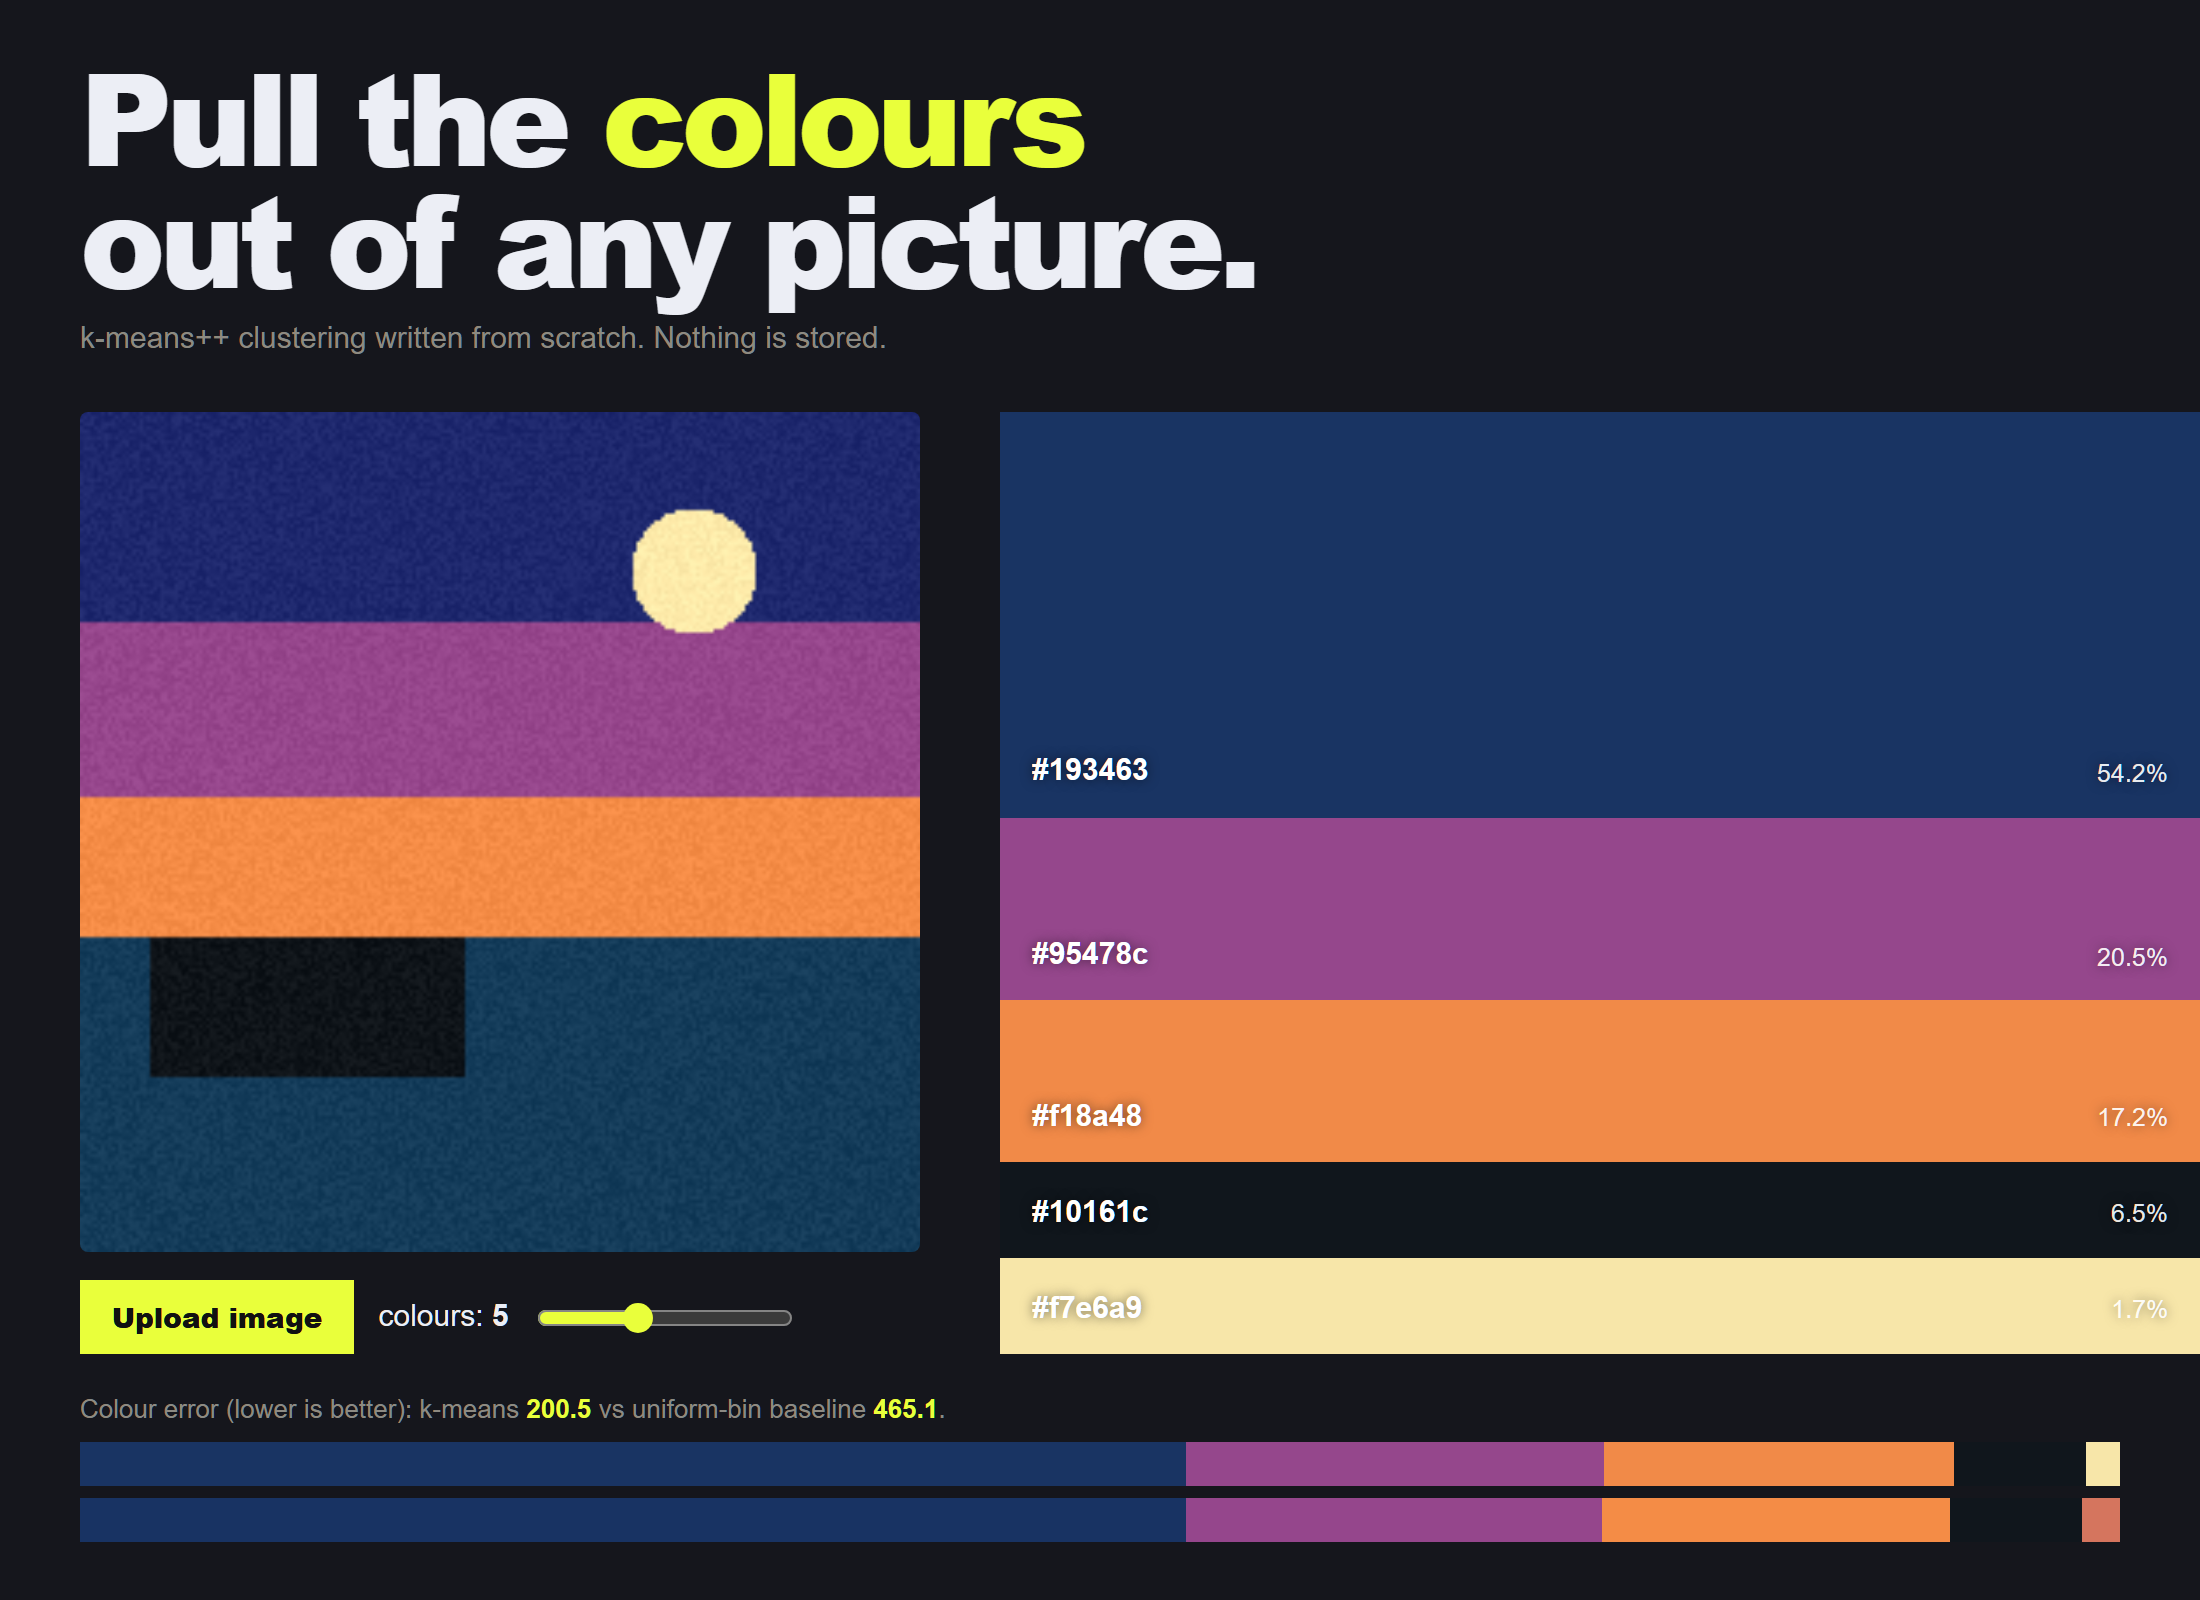
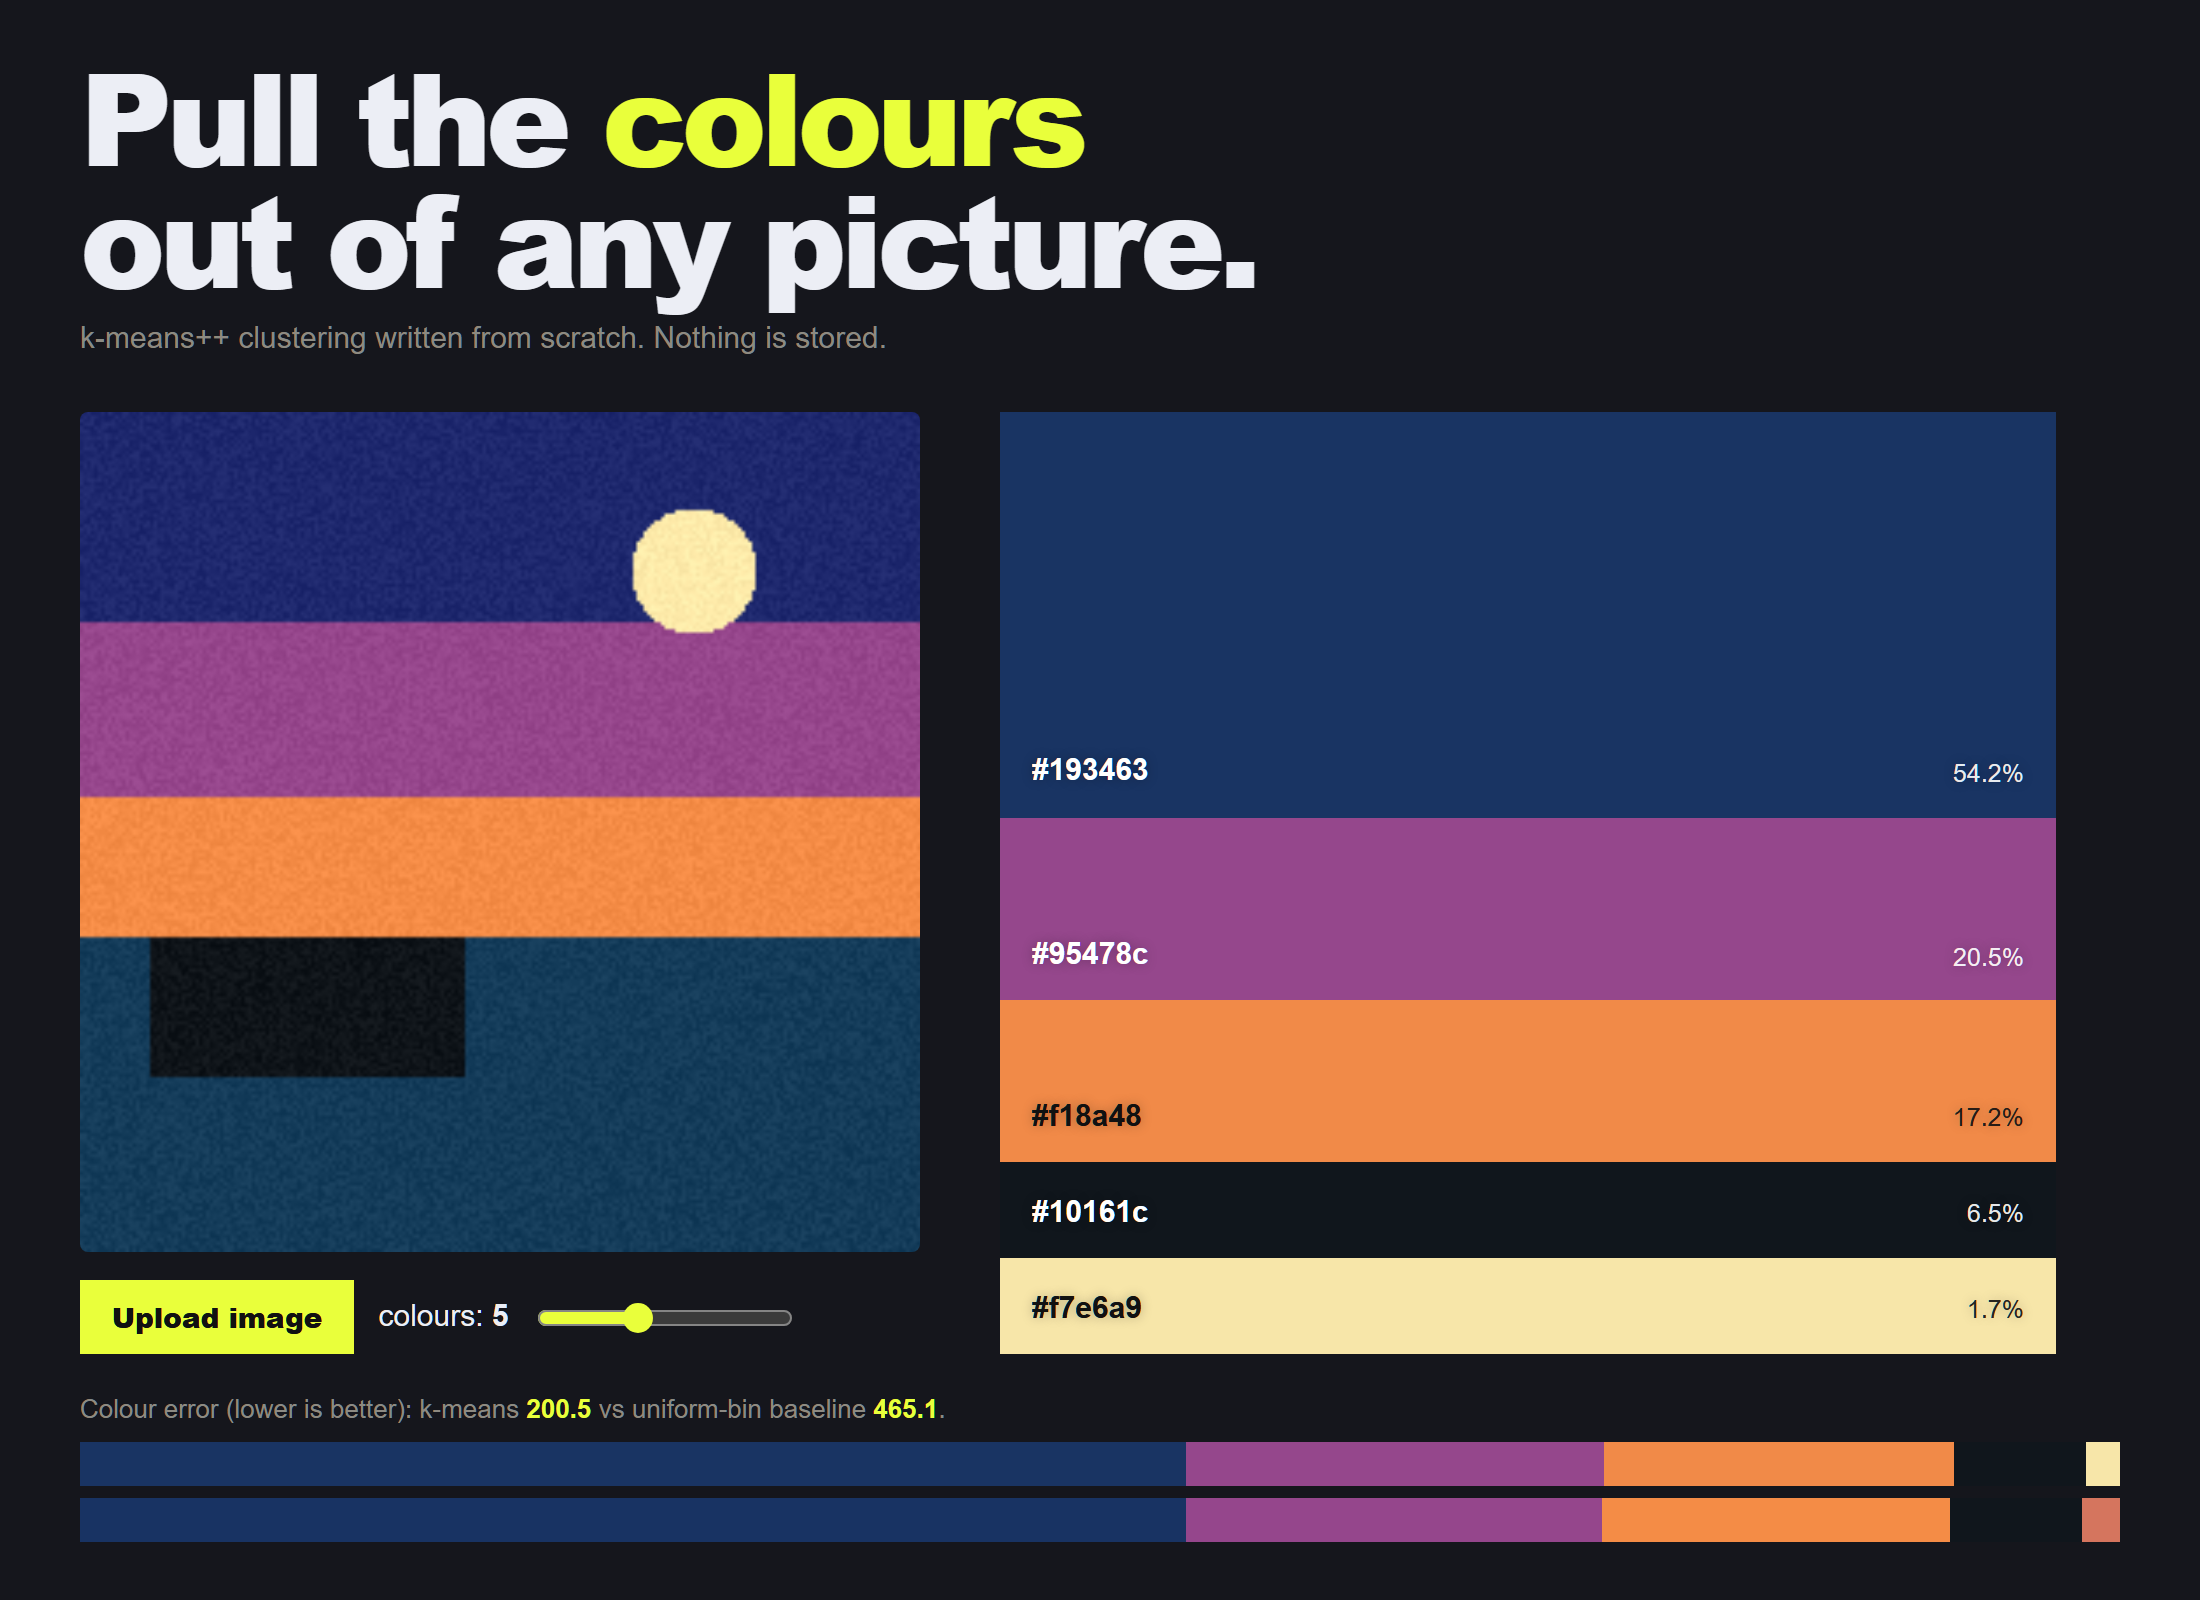
Fix layout: palette-extractor

diff --git a/projects/palette-extractor/static/index.html b/projects/palette-extractor/static/index.html
@@ -4,12 +4,13 @@
 :root{--bg:#111;--ink:#f4f1ea;--mute:#8d8a82;--acc:#e9ff3b}
 *{box-sizing:border-box}body{margin:0;background:var(--bg);color:var(--ink);font:15px/1.5 "Helvetica Neue",Arial,sans-serif;padding:0}
 header{padding:28px 40px 0}h1{font-size:64px;line-height:.95;margin:0;font-weight:900;letter-spacing:-3px}h1 em{font-style:normal;color:var(--acc)}
-p.s{color:var(--mute);margin:8px 0 0}.wrap{display:grid;grid-template-columns:1fr 1.2fr;gap:0;margin-top:26px}@media(max-width:850px){.wrap{grid-template-columns:1fr}}
+p.s{color:var(--mute);margin:8px 0 0}.wrap{display:grid;grid-template-columns:minmax(0,1fr) minmax(0,1.2fr);gap:0;margin-top:26px}@media(max-width:850px){.wrap{grid-template-columns:minmax(0,1fr)}}
 .left{padding:0 40px}.left img{width:100%;border-radius:4px;display:block}.ctl{display:flex;gap:12px;align-items:center;margin-top:14px;flex-wrap:wrap}
 input[type=range]{accent-color:var(--acc)}button,label.f{background:var(--acc);color:#111;border:0;padding:8px 16px;font-weight:800;cursor:pointer;font-size:14px}label.f input{display:none}
-.right{display:flex;flex-direction:column;min-height:380px}.sw{flex:1;display:flex;align-items:flex-end;padding:12px 16px;font-weight:700;font-size:15px;text-shadow:0 0 6px #0008;color:#fff;min-height:48px}
+.right{display:flex;flex-direction:column;min-height:380px;min-width:0;padding-right:72px}.sw{flex:1;display:flex;align-items:flex-end;padding:12px 16px;font-weight:700;font-size:15px;text-shadow:0 0 6px #0004;min-height:48px}
 .sw small{margin-left:auto;font-weight:400;opacity:.9}.cmp{padding:18px 40px;color:var(--mute);font-size:13px}.cmp b{color:var(--acc)}.strip{display:flex;height:22px;margin-top:6px}.strip i{display:block}
 #err{color:#ff7a7a;padding:0 40px}
+@media (max-width:480px){.right{padding-right:16px}.left{padding:0 16px}header{padding:28px 16px 0}.cmp{padding:18px 16px}}
 @media (prefers-color-scheme: dark){body{background:#15161c;color:#eceef5}}
 </style></head><body>
 <header><h1>Pull the <em>colours</em><br>out of any picture.</h1><p class="s">k-means++ clustering written from scratch. Nothing is stored.</p></header>
@@ -17,9 +18,13 @@ input[type=range]{accent-color:var(--acc)}button,label.f{background:var(--acc);c
 <div class="right" id="sw"></div></div><div class="cmp" id="cmp"></div><div id="err"></div>
 <script>
 const $=i=>document.getElementById(i);let file=null;
+const lin=c=>{c/=255;return c<=.03928?c/12.92:Math.pow((c+.055)/1.055,2.4)};
+const lum=h=>{const n=parseInt(h.slice(1),16);return .2126*lin(n>>16&255)+.7152*lin(n>>8&255)+.0722*lin(n&255)};
+const ratio=(a,b)=>{const x=lum(a),y=lum(b);return (Math.max(x,y)+.05)/(Math.min(x,y)+.05)};
+const ink=h=>ratio(h,'#ffffff')>=ratio(h,'#111111')?'#ffffff':'#111111';
 async function run(){try{$('err').textContent='';const fd=new FormData();fd.append('k',$('k').value);if(file)fd.append('file',file);
 const r=await fetch('/palette',{method:'POST',body:fd});const j=await r.json();if(!r.ok){$('err').textContent=j.detail;return}
-$('sw').innerHTML=j.palette.map(p=>`<div class="sw" style="background:${p.hex};flex:${Math.max(p.share,.05)}">${p.hex}<small>${(p.share*100).toFixed(1)}%</small></div>`).join('');
+$('sw').innerHTML=j.palette.map(p=>`<div class="sw" style="background:${p.hex};color:${ink(p.hex)};flex:${Math.max(p.share,.05)}">${p.hex}<small>${(p.share*100).toFixed(1)}%</small></div>`).join('');
 const strip=a=>`<div class="strip">${a.map(p=>`<i style="background:${p.hex};flex:${p.share}"></i>`).join('')}</div>`;
 $('cmp').innerHTML=`Colour error (lower is better): k-means <b>${j.mse_kmeans}</b> vs uniform-bin baseline <b>${j.mse_baseline}</b>.${strip(j.palette)}${strip(j.baseline_palette)}`}catch(e){$('err').textContent='Could not extract the colours. Try again.'}}
 $('k').oninput=()=>{$('kv').textContent=$('k').value;run()};

diff --git a/projects/palette-extractor/tests/test_all.py b/projects/palette-extractor/tests/test_all.py
@@ -84,3 +84,8 @@ def test_index_has_extract_error_text_and_dark_scheme():
     page = c.get("/").text
     assert "Could not extract the colours" in page
     assert "prefers-color-scheme: dark" in page
+
+
+def test_index_has_minmax_grid_and_right_gutter():
+    page = c.get("/").text
+    assert "minmax(0,1fr) minmax(0,1.2fr)" in page and "padding-right:72px" in page
